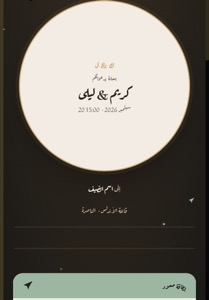
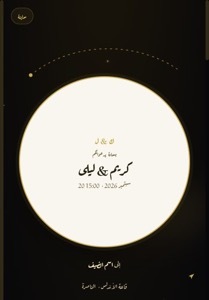
fix(digital): re-ground Destination Love palettes on the brand gold identity
Owner post-ship review: template palettes must match the website's own
identity (gold #c9a84c on near-black #07070a) and luxury register, not the
source site's pastels. Values-only — no ids/keys/backend/tests change:
- voyage → brand gold on near-black; voyageAzure → in-brand blue family with
  gold-trimmed medallion; voyageSand → in-brand ivorygold luxe family
- motifs: plane/solid accents → gold family; stamp → wax-seal red #b3232a;
  boarding-pass panel → classic-envelope cream #f9f6f0
- DlButton → classic gold-gradient treatment; new onSecondary ink token
  replaces isLight ternaries; fix silently-undefined t.accent in sections
- regenerated picker thumbnail from the new brand-gold hero

Verified all 3 palettes in-browser at 390x844 (sealed→tap→open, sections,
CTAs); unit suite 568+522 green; build clean.

diff --git a/shared/src/styles/digitalThemes.js b/shared/src/styles/digitalThemes.js
@@ -414,8 +414,12 @@ const THEMES = {
 
   // ── Destination Love (رحلة الحب) native palettes ────────────────────────────
   // Travel / boarding-pass template (templateId "destination-love"). Curated
-  // list, native first: voyage → voyageAzure → voyageSand. The template layers
-  // its own motif colours (sage/sky/terracotta secondary, plane, ring, panel)
+  // list, native first: voyage → voyageAzure → voyageSand. Owner rule
+  // (2026-07-15 post-ship review): bespoke-template palettes derive from the
+  // WEBSITE's identity — brand gold #c9a84c on near-black #07070a (theme.js C),
+  // with variants drawn from the in-brand `blue` / `ivorygold` families — the
+  // source design contributes layout/motion, never its color identity. The
+  // template layers its own motif colours (plane, boarding-pass panel, stamp)
   // in destination-love/tokens.js keyed by `key`, so these stay standard
   // digitalThemes objects the shared machinery (contrast pairs, nav, backend
   // THEME_COLORS) keeps consuming unchanged.
@@ -423,82 +427,82 @@ const THEMES = {
     key: "voyage",
     label_ar: "رحلة ذهبية",
     label_he: "מסע זהוב",
-    swatch: "#c9a86a",
-    bg: "#1c1a17",
-    overlay: "rgba(28,26,23,.85)",
-    text: "#f4ecdd",
-    textSoft: "#cbb89a",
-    accent: "#c9a86a",
-    accentMuted: "rgba(201,168,106,.16)",
-    accentLine: "rgba(201,168,106,.24)",
-    gradientStops: ["#f4ecdd", "#e2cfa6", "#c9a86a"],
-    monoStops: ["#faf1db", "#e2cfa6", "#c9a86a"],
-    eyebrow: "#c9a86a",
-    petal: "radial-gradient(circle at 30% 30%, #e2cfa6 0%, #9bb7a1 80%)",
-    sparkle: "#f4ecdd",
-    sparkleGlow: "#c9a86a",
-    chipBg: "rgba(201,168,106,.07)",
-    chipBorder: "rgba(201,168,106,.24)",
-    cardBg: "linear-gradient(180deg, rgba(201,168,106,.05), rgba(201,168,106,.01))",
-    cardBorder: "rgba(201,168,106,.22)",
-    successBg: "linear-gradient(180deg, rgba(98,197,132,.10), rgba(98,197,132,.02))",
-    successBorder: "rgba(98,197,132,.30)",
-    rsvpAttending: "#62c584",
-    rsvpAbsent: "#f95d51",
+    swatch: "#c9a84c",
+    bg: "#07070a",
+    overlay: "rgba(7,7,10,.85)",
+    text: "#f5e6b8",
+    textSoft: "#cbb992",
+    accent: "#c9a84c",
+    accentMuted: "rgba(201,168,76,.16)",
+    accentLine: "rgba(201,168,76,.24)",
+    gradientStops: ["#f5e6b8", "#e2cfa6", "#c9a84c"],
+    monoStops: ["#faf1d8", "#e2cfa6", "#c9a84c"],
+    eyebrow: "#c9a84c",
+    petal: "radial-gradient(circle at 30% 30%, #e2cfa6 0%, #c9a84c 80%)",
+    sparkle: "#f5e6b8",
+    sparkleGlow: "#c9a84c",
+    chipBg: "rgba(201,168,76,.07)",
+    chipBorder: "rgba(201,168,76,.24)",
+    cardBg: "linear-gradient(180deg, rgba(201,168,76,.05), rgba(201,168,76,.01))",
+    cardBorder: "rgba(201,168,76,.22)",
+    successBg: "linear-gradient(180deg, rgba(76,201,122,.10), rgba(76,201,122,.02))",
+    successBorder: "rgba(76,201,122,.30)",
+    rsvpAttending: "#4cc97a",
+    rsvpAbsent: "#d4533a",
   },
   voyageAzure: {
     key: "voyageAzure",
     label_ar: "رحلة ليلية",
     label_he: "טיסת לילה",
-    swatch: "#9cc0e8",
-    bg: "#12161f",
-    overlay: "rgba(18,22,31,.85)",
-    text: "#eaf1fb",
-    textSoft: "#aebdd4",
-    accent: "#9cc0e8",
-    accentMuted: "rgba(156,192,232,.16)",
-    accentLine: "rgba(156,192,232,.24)",
-    gradientStops: ["#eaf1fb", "#c9d8ef", "#9cc0e8"],
-    monoStops: ["#f0f5ff", "#c9d8ef", "#8fb8e0"],
-    eyebrow: "#9cc0e8",
-    petal: "radial-gradient(circle at 30% 30%, #c9d8ef 0%, #6f97c8 80%)",
-    sparkle: "#eaf1fb",
-    sparkleGlow: "#9cc0e8",
-    chipBg: "rgba(156,192,232,.08)",
-    chipBorder: "rgba(156,192,232,.24)",
-    cardBg: "linear-gradient(180deg, rgba(156,192,232,.06), rgba(156,192,232,.01))",
-    cardBorder: "rgba(156,192,232,.22)",
-    successBg: "linear-gradient(180deg, rgba(98,197,132,.10), rgba(98,197,132,.02))",
-    successBorder: "rgba(98,197,132,.30)",
-    rsvpAttending: "#62c584",
-    rsvpAbsent: "#f95d51",
+    swatch: "#8fb8e0",
+    bg: "#070a14",
+    overlay: "rgba(7,10,20,.85)",
+    text: "#e6efff",
+    textSoft: "#a8b8d0",
+    accent: "#8fb8e0",
+    accentMuted: "rgba(143,184,224,.16)",
+    accentLine: "rgba(143,184,224,.25)",
+    gradientStops: ["#e6efff", "#b8d0f0", "#8fb8e0"],
+    monoStops: ["#eef4ff", "#b8d0f0", "#5a8acc"],
+    eyebrow: "#8fb8e0",
+    petal: "radial-gradient(circle at 30% 30%, #b8d0f0 0%, #5a8acc 80%)",
+    sparkle: "#e6efff",
+    sparkleGlow: "#8fb8e0",
+    chipBg: "rgba(143,184,224,.08)",
+    chipBorder: "rgba(143,184,224,.25)",
+    cardBg: "linear-gradient(180deg, rgba(143,184,224,.06), rgba(143,184,224,.01))",
+    cardBorder: "rgba(143,184,224,.22)",
+    successBg: "linear-gradient(180deg, rgba(76,201,122,.10), rgba(76,201,122,.02))",
+    successBorder: "rgba(76,201,122,.30)",
+    rsvpAttending: "#4cc97a",
+    rsvpAbsent: "#d4533a",
   },
   voyageSand: {
     key: "voyageSand",
     label_ar: "رحلة نهارية",
     label_he: "מסע יום",
-    swatch: "#2f6d5f",
-    bg: "#f7f1e6",
-    overlay: "rgba(247,241,230,.92)",
-    text: "#2a2620",
-    textSoft: "#6b6152",
-    accent: "#2f6d5f",
-    accentMuted: "rgba(47,109,95,.12)",
-    accentLine: "rgba(47,109,95,.22)",
-    gradientStops: ["#2f6d5f", "#3f8272", "#265a4e"],
-    monoStops: ["#2f6d5f", "#3f8272", "#265a4e"],
-    eyebrow: "#2f6d5f",
-    petal: "radial-gradient(circle at 30% 30%, #e8d3b8 0%, #c98a5e 80%)",
-    sparkle: "#c98a5e",
-    sparkleGlow: "#e0b483",
-    chipBg: "rgba(47,109,95,.06)",
-    chipBorder: "rgba(47,109,95,.22)",
+    swatch: "#c4a458",
+    bg: "#faf5e7",
+    overlay: "rgba(250,245,231,.92)",
+    text: "#332d1a",
+    textSoft: "#6e5f33",
+    accent: "#c4a458",
+    accentMuted: "rgba(196,164,88,.14)",
+    accentLine: "rgba(196,164,88,.22)",
+    gradientStops: ["#c4a458", "#ddc488", "#9c8040"],
+    monoStops: ["#c4a458", "#ddc488", "#9c8040"],
+    eyebrow: "#c4a458",
+    petal: "radial-gradient(circle at 30% 30%, #f0e3bf 0%, #c4a458 80%)",
+    sparkle: "#c4a458",
+    sparkleGlow: "#ddc488",
+    chipBg: "rgba(196,164,88,.06)",
+    chipBorder: "rgba(196,164,88,.22)",
     cardBg: "linear-gradient(180deg, rgba(255,255,255,.6), rgba(255,255,255,.2))",
-    cardBorder: "rgba(47,109,95,.22)",
+    cardBorder: "rgba(196,164,88,.22)",
     successBg: "linear-gradient(180deg, rgba(45,168,90,.12), rgba(45,168,90,.03))",
     successBorder: "rgba(45,168,90,.30)",
     rsvpAttending: "#2da85a",
-    rsvpAbsent: "#c0492f",
+    rsvpAbsent: "#b04020",
   },
 };
 

diff --git a/frontend/src/components/digital/templates/destination-love/sections.jsx b/frontend/src/components/digital/templates/destination-love/sections.jsx
@@ -75,9 +75,9 @@ export function BoardingPass({ t, lang, fontFamily, namesLine, dateText, timeTex
   return (
     <section className="dl-scroll" style={{ padding: "16px 18px 8px" }}>
       <div style={{ maxWidth: t.maxW, margin: "0 auto", background: t.panel, color: t.panelInk, borderRadius: 18, overflow: "hidden", boxShadow: "0 24px 60px -34px rgba(0,0,0,.6)" }}>
-        <div style={{ display: "flex", alignItems: "center", justifyContent: "space-between", padding: "13px 18px", background: t.secondary, color: t.isLight ? "#fff" : "#20211c" }}>
+        <div style={{ display: "flex", alignItems: "center", justifyContent: "space-between", padding: "13px 18px", background: t.secondary, color: t.onSecondary }}>
           <span style={{ fontWeight: 900, fontSize: 13 }}>{L(lang, "بطاقة صعود", "כרטיס עלייה")}</span>
-          <PaperPlane size={20} color={t.isLight ? "#fff" : "#20211c"} stroke="transparent" />
+          <PaperPlane size={20} color={t.onSecondary} stroke="transparent" />
         </div>
         <div style={{ padding: "16px 18px" }}>
           <div style={{ display: "flex", gap: 14, marginBottom: 14 }}>
@@ -185,7 +185,7 @@ export function RsvpSection({ t, lang, fontFamily, opts, mealOptions, guestPhone
   const f = useRsvpForm({ guestPhone, opts, theme: t.theme, lang, onSubmitRsvp, rsvpDone, disabled });
   const chipStyle = (on) => ({
     padding: "9px 14px", borderRadius: 999, cursor: "pointer", fontSize: 13, fontWeight: 700, fontFamily: "inherit",
-    border: `1px solid ${on ? "transparent" : t.theme.accentLine}`, background: on ? t.secondary : "transparent", color: on ? (t.isLight ? "#fff" : "#20211c") : t.theme.textSoft,
+    border: `1px solid ${on ? "transparent" : t.theme.accentLine}`, background: on ? t.secondary : "transparent", color: on ? t.onSecondary : t.theme.textSoft,
   });
   const inputStyle = { width: "100%", padding: "11px 13px", borderRadius: 12, border: `1px solid ${t.theme.accentLine}`, background: "transparent", color: t.theme.text, fontFamily: "inherit", fontSize: 14 };
 
@@ -195,7 +195,7 @@ export function RsvpSection({ t, lang, fontFamily, opts, mealOptions, guestPhone
       <div style={{ maxWidth: 400, margin: "0 auto", position: "relative", background: t.theme.cardBg, border: `1px solid ${t.theme.cardBorder}`, borderRadius: 18, padding: 20 }}>
         {(alreadyAnswered && !f.showDone) || f.showDone ? (
           <div data-testid="rsvp-success" role="status" aria-live="polite" style={{ textAlign: "center", padding: "10px 0" }}>
-            <div style={{ width: 54, height: 54, borderRadius: "50%", margin: "0 auto 12px", display: "flex", alignItems: "center", justifyContent: "center", background: t.secondary, color: t.isLight ? "#fff" : "#20211c", fontSize: 26 }}>✓</div>
+            <div style={{ width: 54, height: 54, borderRadius: "50%", margin: "0 auto 12px", display: "flex", alignItems: "center", justifyContent: "center", background: t.secondary, color: t.onSecondary, fontSize: 26 }}>✓</div>
             <div style={{ fontWeight: 800, fontSize: 18, color: t.theme.text }}>
               {alreadyAnswered && !f.showDone ? L(lang, "تم تأكيد ردك", "כבר אישרת") : (f.status === "absent" ? L(lang, "نشكر إعلامكم", "תודה שהודעת") : L(lang, "تم حجز مقعدك!", "המקום שוריין!"))}
             </div>

diff --git a/frontend/src/components/digital/templates/destination-love/tokens.js b/frontend/src/components/digital/templates/destination-love/tokens.js
@@ -8,22 +8,26 @@ import { getDigitalTheme } from "../../../../styles/digitalThemes.js";
 
 // Per-palette motif colours. `panel` = the cream/ivory boarding-pass card,
 // `panelInk` = text on it, `stamp` = the "invited" ink stamp, `dash` = the
-// dashed flight-path stroke, `secondary`/`sky` = travel accents.
+// dashed flight-path stroke, `secondary` = the plane/solid-accent tone,
+// `onSecondary` = ink that sits on `secondary` fills. Owner rule (2026-07-15):
+// motifs stay inside the WEBSITE's luxury identity — brand-gold family accents,
+// classic-envelope cream paper (#f9f6f0), wax-seal red (#b3232a) for the stamp —
+// the source design never contributes its color identity.
 const MOTIF = {
   voyage: {
-    secondary: "#9bb7a1", sky: "#7ebbfa", ring: "#c9a86a",
-    panel: "#f3ece4", panelSoft: "#e7ddcf", panelInk: "#2a2620", panelInkSoft: "#6b6152",
-    stamp: "#b04a3f", dash: "rgba(201,168,106,.55)", sceneTop: "#241f18", sceneHaze: "#3a2f22",
+    secondary: "#c9a84c", onSecondary: "#2a1c06", sky: "#8fb8e0", ring: "#c9a84c",
+    panel: "#f9f6f0", panelSoft: "#efe6d4", panelInk: "#2a2412", panelInkSoft: "#6e5f33",
+    stamp: "#b3232a", dash: "rgba(201,168,76,.55)", sceneTop: "#0d0c08", sceneHaze: "#1c160a",
   },
   voyageAzure: {
-    secondary: "#9cc0e8", sky: "#8fb8e0", ring: "#9cc0e8",
-    panel: "#eef3fb", panelSoft: "#dbe6f5", panelInk: "#1a2230", panelInkSoft: "#5a6b82",
-    stamp: "#c56a5a", dash: "rgba(156,192,232,.55)", sceneTop: "#161d2b", sceneHaze: "#22304a",
+    secondary: "#8fb8e0", onSecondary: "#101826", sky: "#b8d0f0", ring: "#c9a84c",
+    panel: "#f5f7fb", panelSoft: "#dfe7f2", panelInk: "#1a2230", panelInkSoft: "#5a6b82",
+    stamp: "#b3232a", dash: "rgba(143,184,224,.5)", sceneTop: "#0a0e1a", sceneHaze: "#111a30",
   },
   voyageSand: {
-    secondary: "#c98a5e", sky: "#4a9e97", ring: "#2f6d5f",
-    panel: "#fffdf7", panelSoft: "#f1e8d7", panelInk: "#2a2620", panelInkSoft: "#6b6152",
-    stamp: "#c0492f", dash: "rgba(47,109,95,.5)", sceneTop: "#eadfc8", sceneHaze: "#f2e7d2",
+    secondary: "#c4a458", onSecondary: "#2a1c06", sky: "#ddc488", ring: "#9c8040",
+    panel: "#fffdf7", panelSoft: "#f0e8d2", panelInk: "#332d1a", panelInkSoft: "#6e5f33",
+    stamp: "#b3232a", dash: "rgba(156,128,64,.5)", sceneTop: "#f2ead6", sceneHaze: "#f5eeda",
   },
 };
 
@@ -43,6 +47,10 @@ export function dlTokens(themeColor) {
   return {
     theme,
     ...motif,
+    // Top-level convenience mirror — sections/parts read `t.accent` for labels
+    // and eyebrows (previously undefined, silently falling back to inherited
+    // color; now the real theme accent).
+    accent: theme.accent,
     isLight: isLightBg(theme.bg),
     // Shared geometry so every section lines up.
     maxW: 460,

diff --git a/frontend/src/components/digital/templates/destination-love/parts.jsx b/frontend/src/components/digital/templates/destination-love/parts.jsx
@@ -70,7 +70,9 @@ export function SectionTitle({ eyebrow, title, t, fontFamily, id }) {
   );
 }
 
-// Sage/accent pill with the shine sweep.
+// Brand gold-gradient pill with the shine sweep — the same gradient treatment
+// as the classic RSVP submit, so the CTA reads unmistakably as the website's
+// gold identity in every palette.
 export function DlButton({ children, onClick, disabled, t, type = "button", full = false, testid }) {
   return (
     <button
@@ -90,12 +92,12 @@ export function DlButton({ children, onClick, disabled, t, type = "button", full
         border: "none",
         cursor: disabled ? "not-allowed" : "pointer",
         opacity: disabled ? 0.6 : 1,
-        background: t.secondary,
-        color: t.isLight ? "#fff" : "#20211c",
+        background: `linear-gradient(135deg, ${t.theme.gradientStops.join(",")})`,
+        color: t.onSecondary,
         fontWeight: 800,
         fontSize: 15,
         fontFamily: "inherit",
-        boxShadow: `0 10px 26px -12px ${t.secondary}`,
+        boxShadow: `0 10px 26px -12px ${t.theme.accent}`,
       }}
     >
       {children}

diff --git a/frontend/src/components/digital/templates/destination-love/effects/Scene3D.jsx b/frontend/src/components/digital/templates/destination-love/effects/Scene3D.jsx
@@ -96,7 +96,7 @@ export default function Scene3D({ t, tier = 2, fixed = true, onDowngrade }) {
     // ── Clouds: soft sprites at varied depth drifting horizontally ──────
     const cloudCount = CLOUDS_BY_TIER[tier] || CLOUDS_BY_TIER[2];
     const clouds = [];
-    const cloudColor = new THREE.Color(t.isLight ? "#ffffff" : (t.secondary || "#9bb7a1"));
+    const cloudColor = new THREE.Color(t.isLight ? "#ffffff" : (t.secondary || "#c9a84c"));
     for (let i = 0; i < cloudCount; i++) {
       const mat = new THREE.SpriteMaterial({ map: tex, color: cloudColor, transparent: true, opacity: (t.isLight ? 0.16 : 0.12) + (i % 3) * 0.02, depthWrite: false });
       const s = new THREE.Sprite(mat);

diff --git a/wiki/Digital-Invitations.md b/wiki/Digital-Invitations.md
@@ -701,6 +701,20 @@ extended; registry + hero thumbnail wired.
   active, and **all classic 3D controls hidden** (envelope/starfield/custom-bg + toggles), footer
   toggle kept; picker hero thumbnail loads. Frontend 568 + backend 522 unit green; `npm run build`
   splits the template + a 3.7 kB Scene3D chunk off the shared `three` vendor chunk.
+- **Post-ship feedback round 1 (2026-07-15, owner review): brand-palette alignment — SHIPPED.**
+  Owner accepted the functionality but required the template palettes to match **the website's own
+  identity and luxury feeling**, not the source site's pastels. Fixed values-only (no ids/keys/backend):
+  `voyage` re-grounded on brand gold `#c9a84c` on near-black `#07070a` (theme.js C tokens); `voyageAzure`
+  aligned to the in-brand `blue` family (`#070a14`/`#8fb8e0`) with a gold-trimmed medallion; `voyageSand`
+  aligned to the in-brand `ivorygold` luxe family (`#faf5e7`/`#c4a458`). Motifs: plane/solid accents →
+  gold family, stamp → wax-seal red `#b3232a`, boarding-pass panel → classic-envelope cream `#f9f6f0`;
+  `DlButton` → the classic gold-gradient treatment; new `onSecondary` ink token replaced the isLight
+  ternaries; fixed a silent bug where sections read undefined `t.accent` (now a real convenience mirror).
+  Verified all 3 palettes in-browser at 390×844 + regenerated the picker thumbnail. Tests 568+522 green.
+  **⭐ STANDING RULE for all future bespoke templates (incl. templates 2–4):** palettes derive from the
+  brand family — near-black `#07070a` / ivory-gold grounds, `#c9a84c`-family accents, cream paper panels,
+  wax-red accent stamps; the source design contributes layout/motion/ornament language, **never its color
+  identity**.
 - **NEXT — Wave 1 usability gate (owner-run):** per [[Usability Templates Test Plan]], run the
   formative wave (4–5 participants, incl. an older P2 guest on a budget Android) on `destination-love`
   BEFORE building templates 2–4 (`dolce-vita`, `sacred-garden`, `blossom-oud`). It resolves the

diff --git a/log.md b/log.md
@@ -340,3 +340,6 @@ Touched: Digital-Invitations
 
 ## [2026-07-15 11:10] session | Bespoke template plumbing + Destination Love template
 Touched: Digital-Invitations, Usability-Templates-Test-Plan, Tasks-Backlog, index
+
+## [2026-07-15 18:45] session | Brand-gold palette alignment for Destination Love
+Touched: Digital-Invitations
